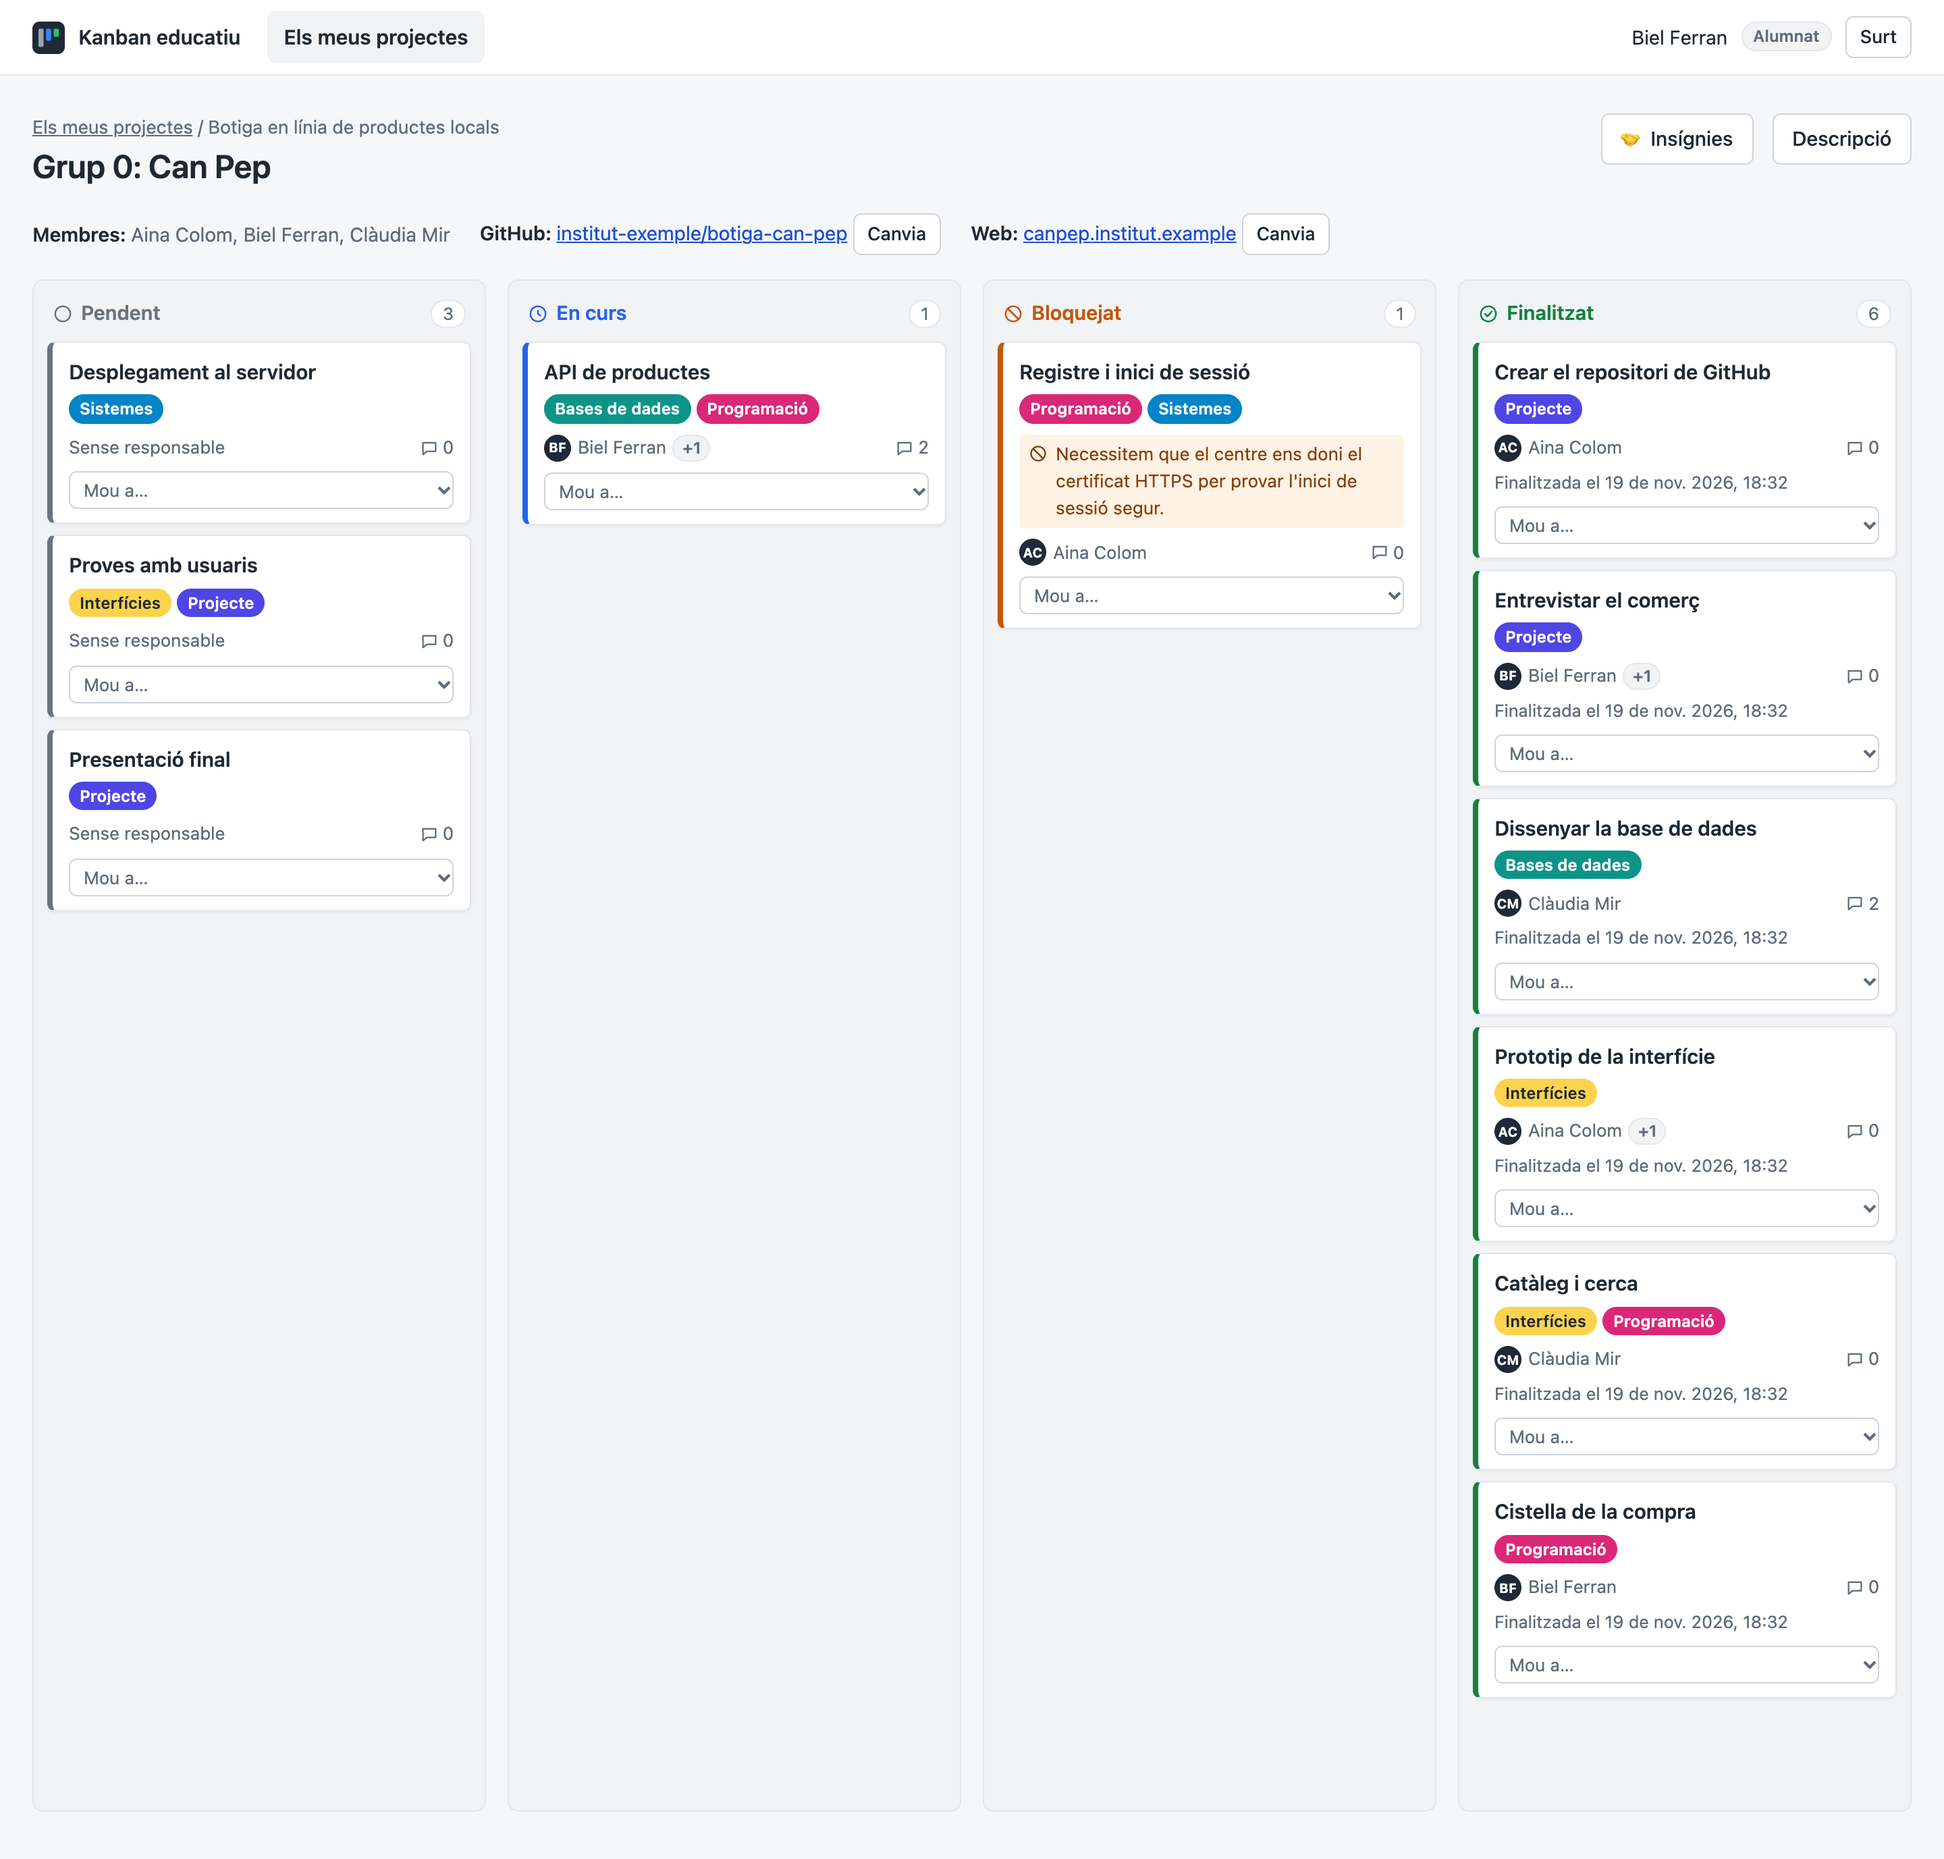
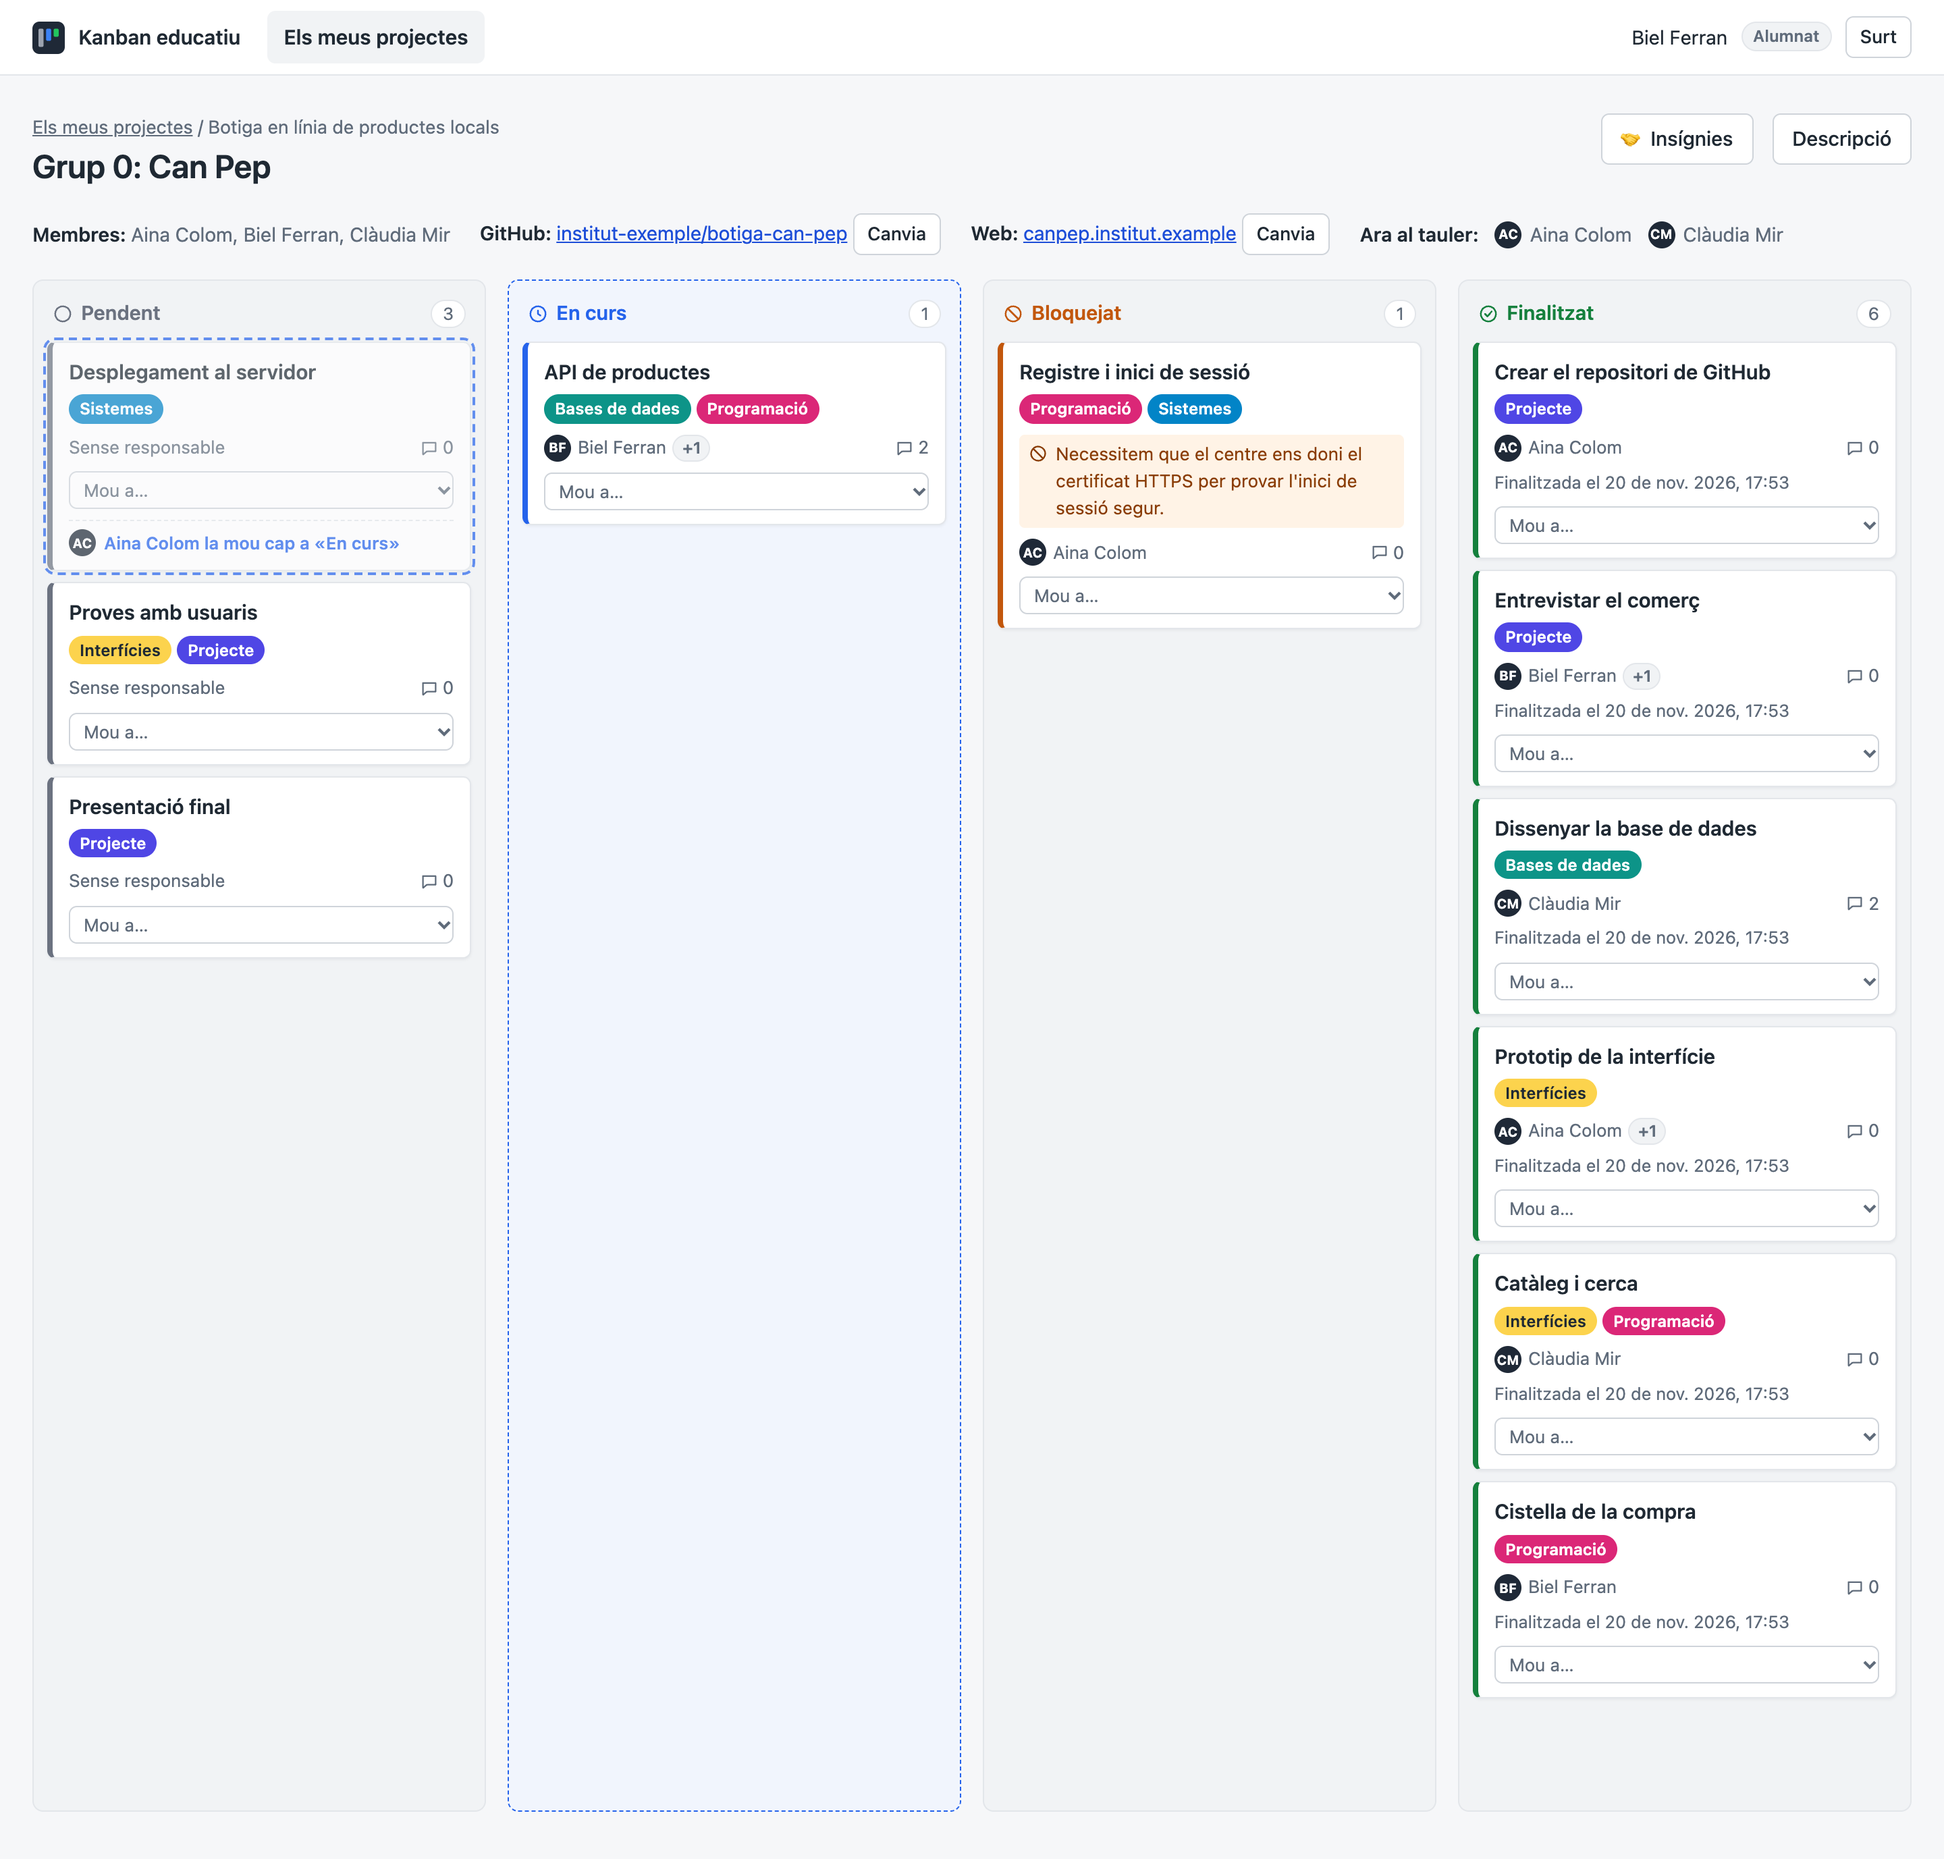
Show the real-time features in the board screenshot

diff --git a/README.md b/README.md
@@ -103,7 +103,7 @@ les insígnies, la llista de tasques bloquejades i el detall d'una tasca
 oberta, que es torna a carregar sense perdre el comentari que s'hi estigui
 escrivint.
 
-![Tauler Kanban d'un grup](assets/06-tauler.png)
+![Tauler Kanban d'un grup: a dalt es veu qui més hi ha al tauler, i la primera targeta de «Pendent» està marcada perquè una companya l'arrossega cap a «En curs»](assets/06-tauler.png)
 
 ### Detall d'una tasca
 
